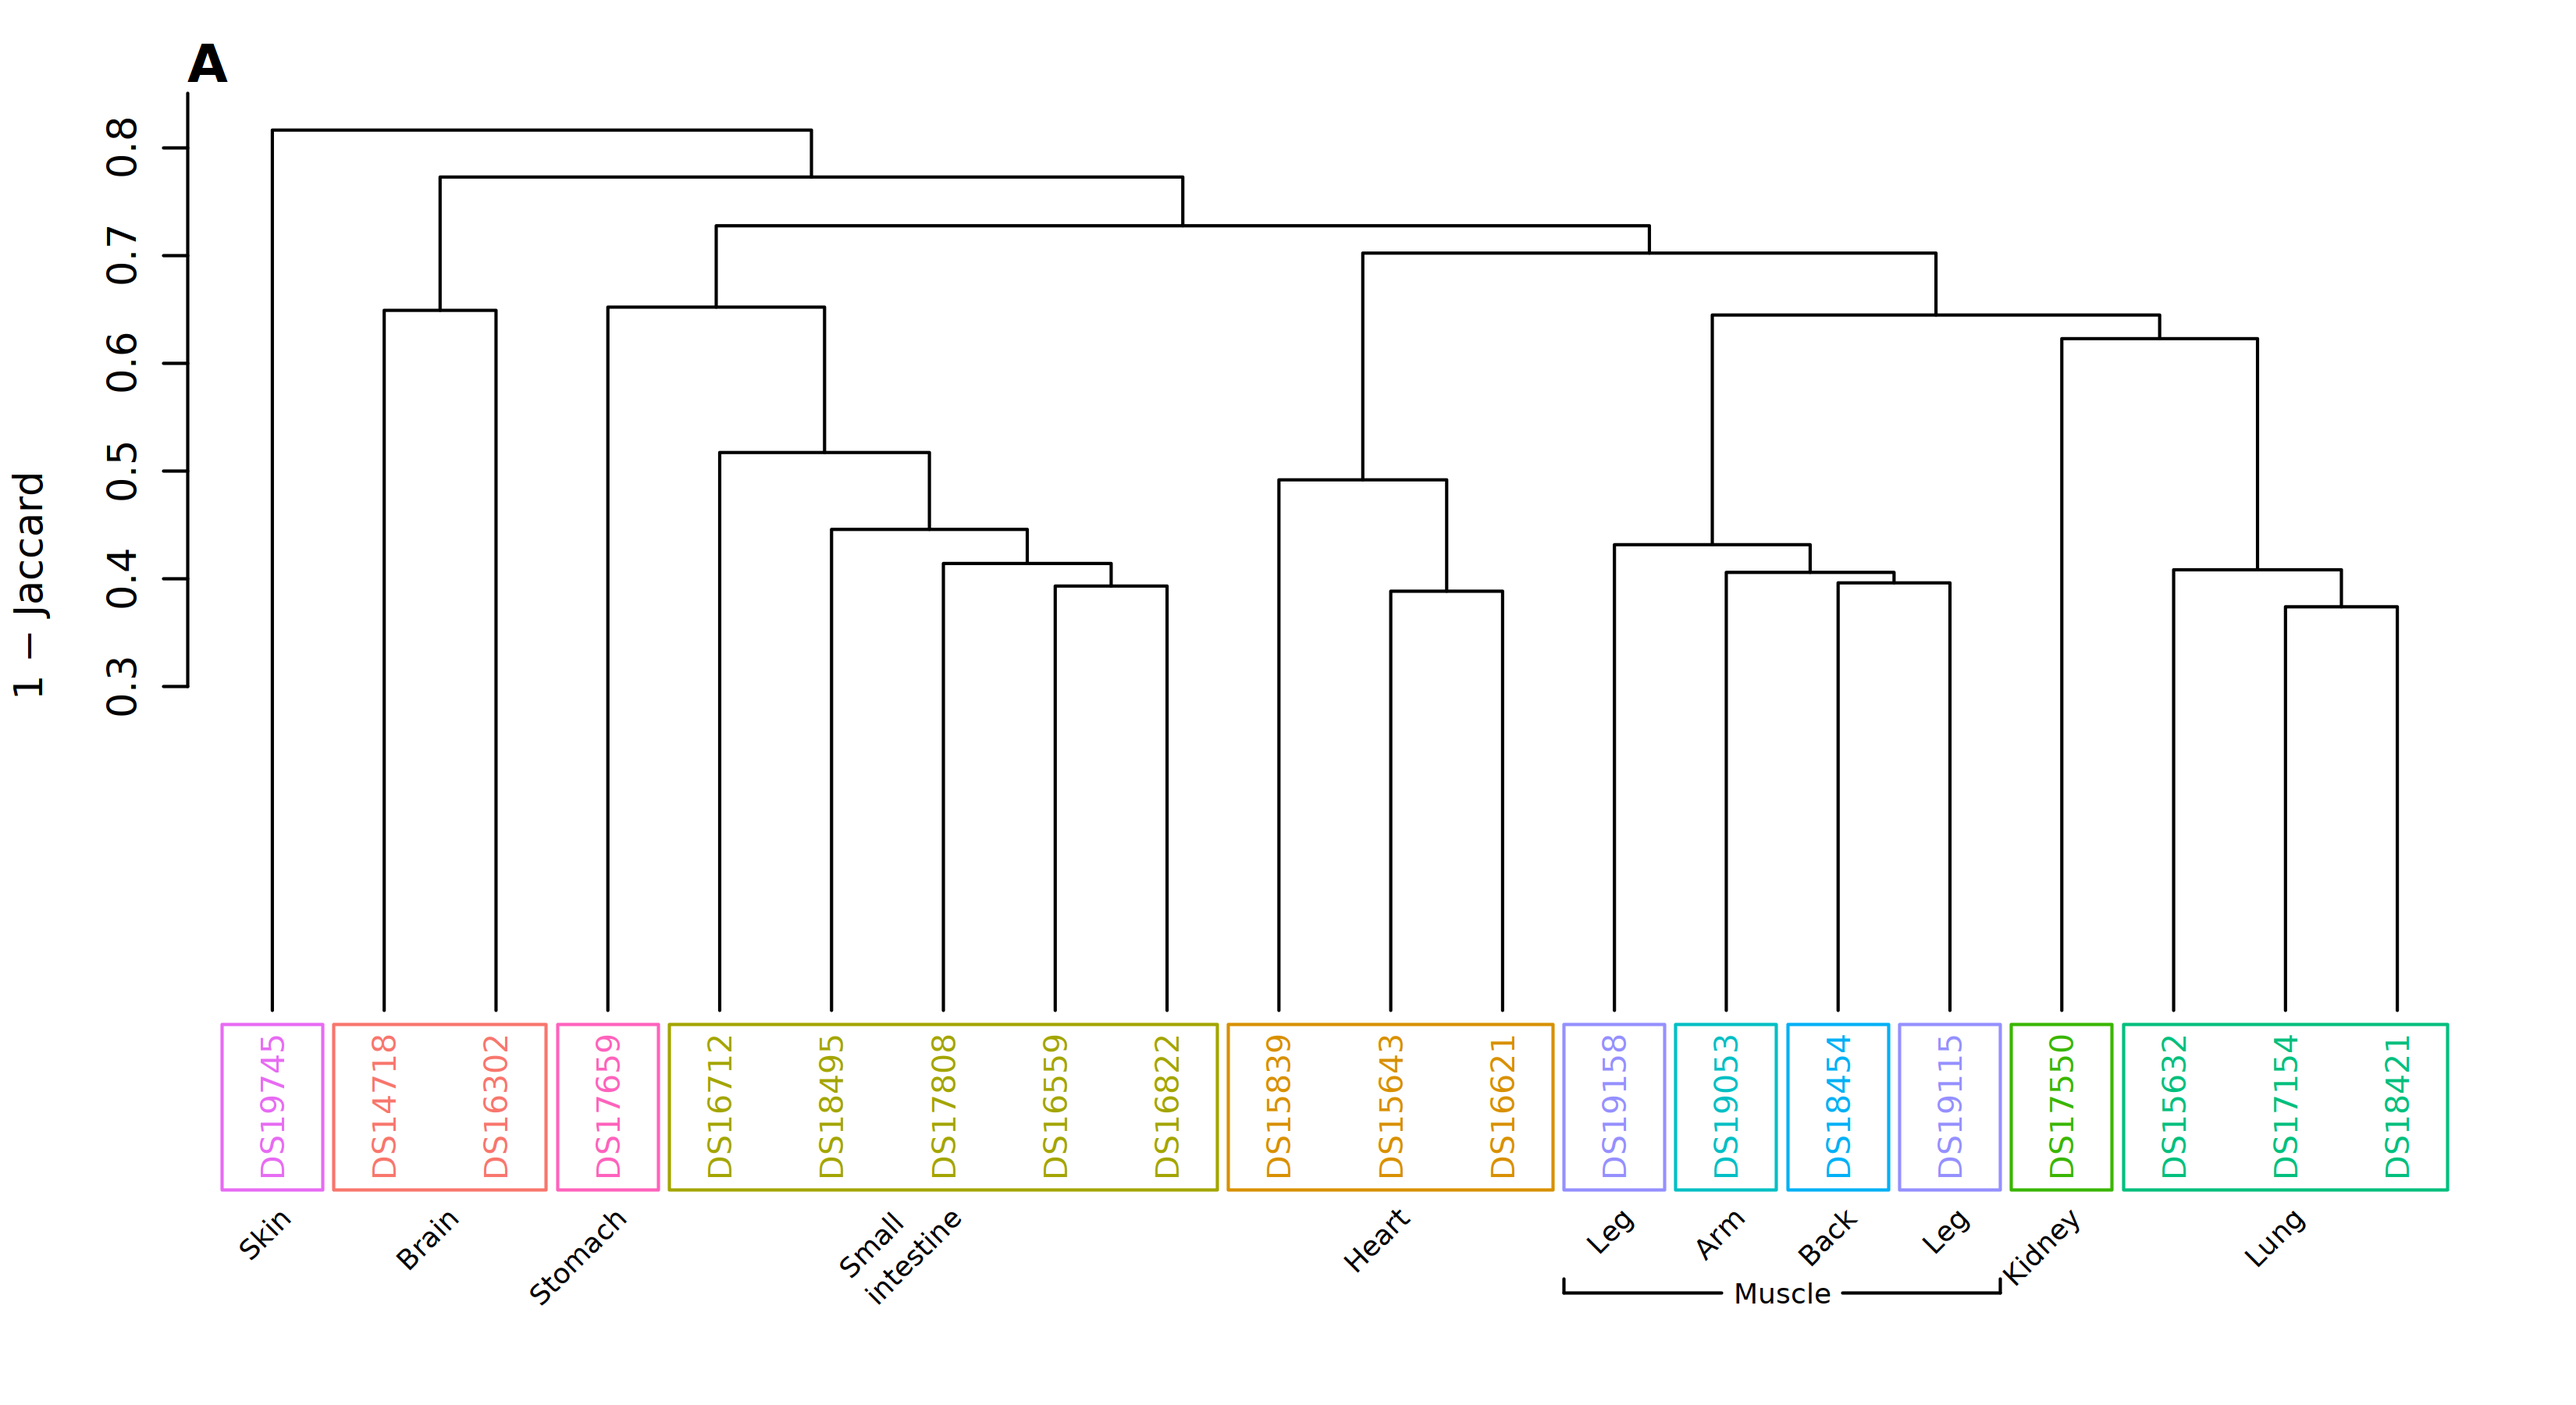
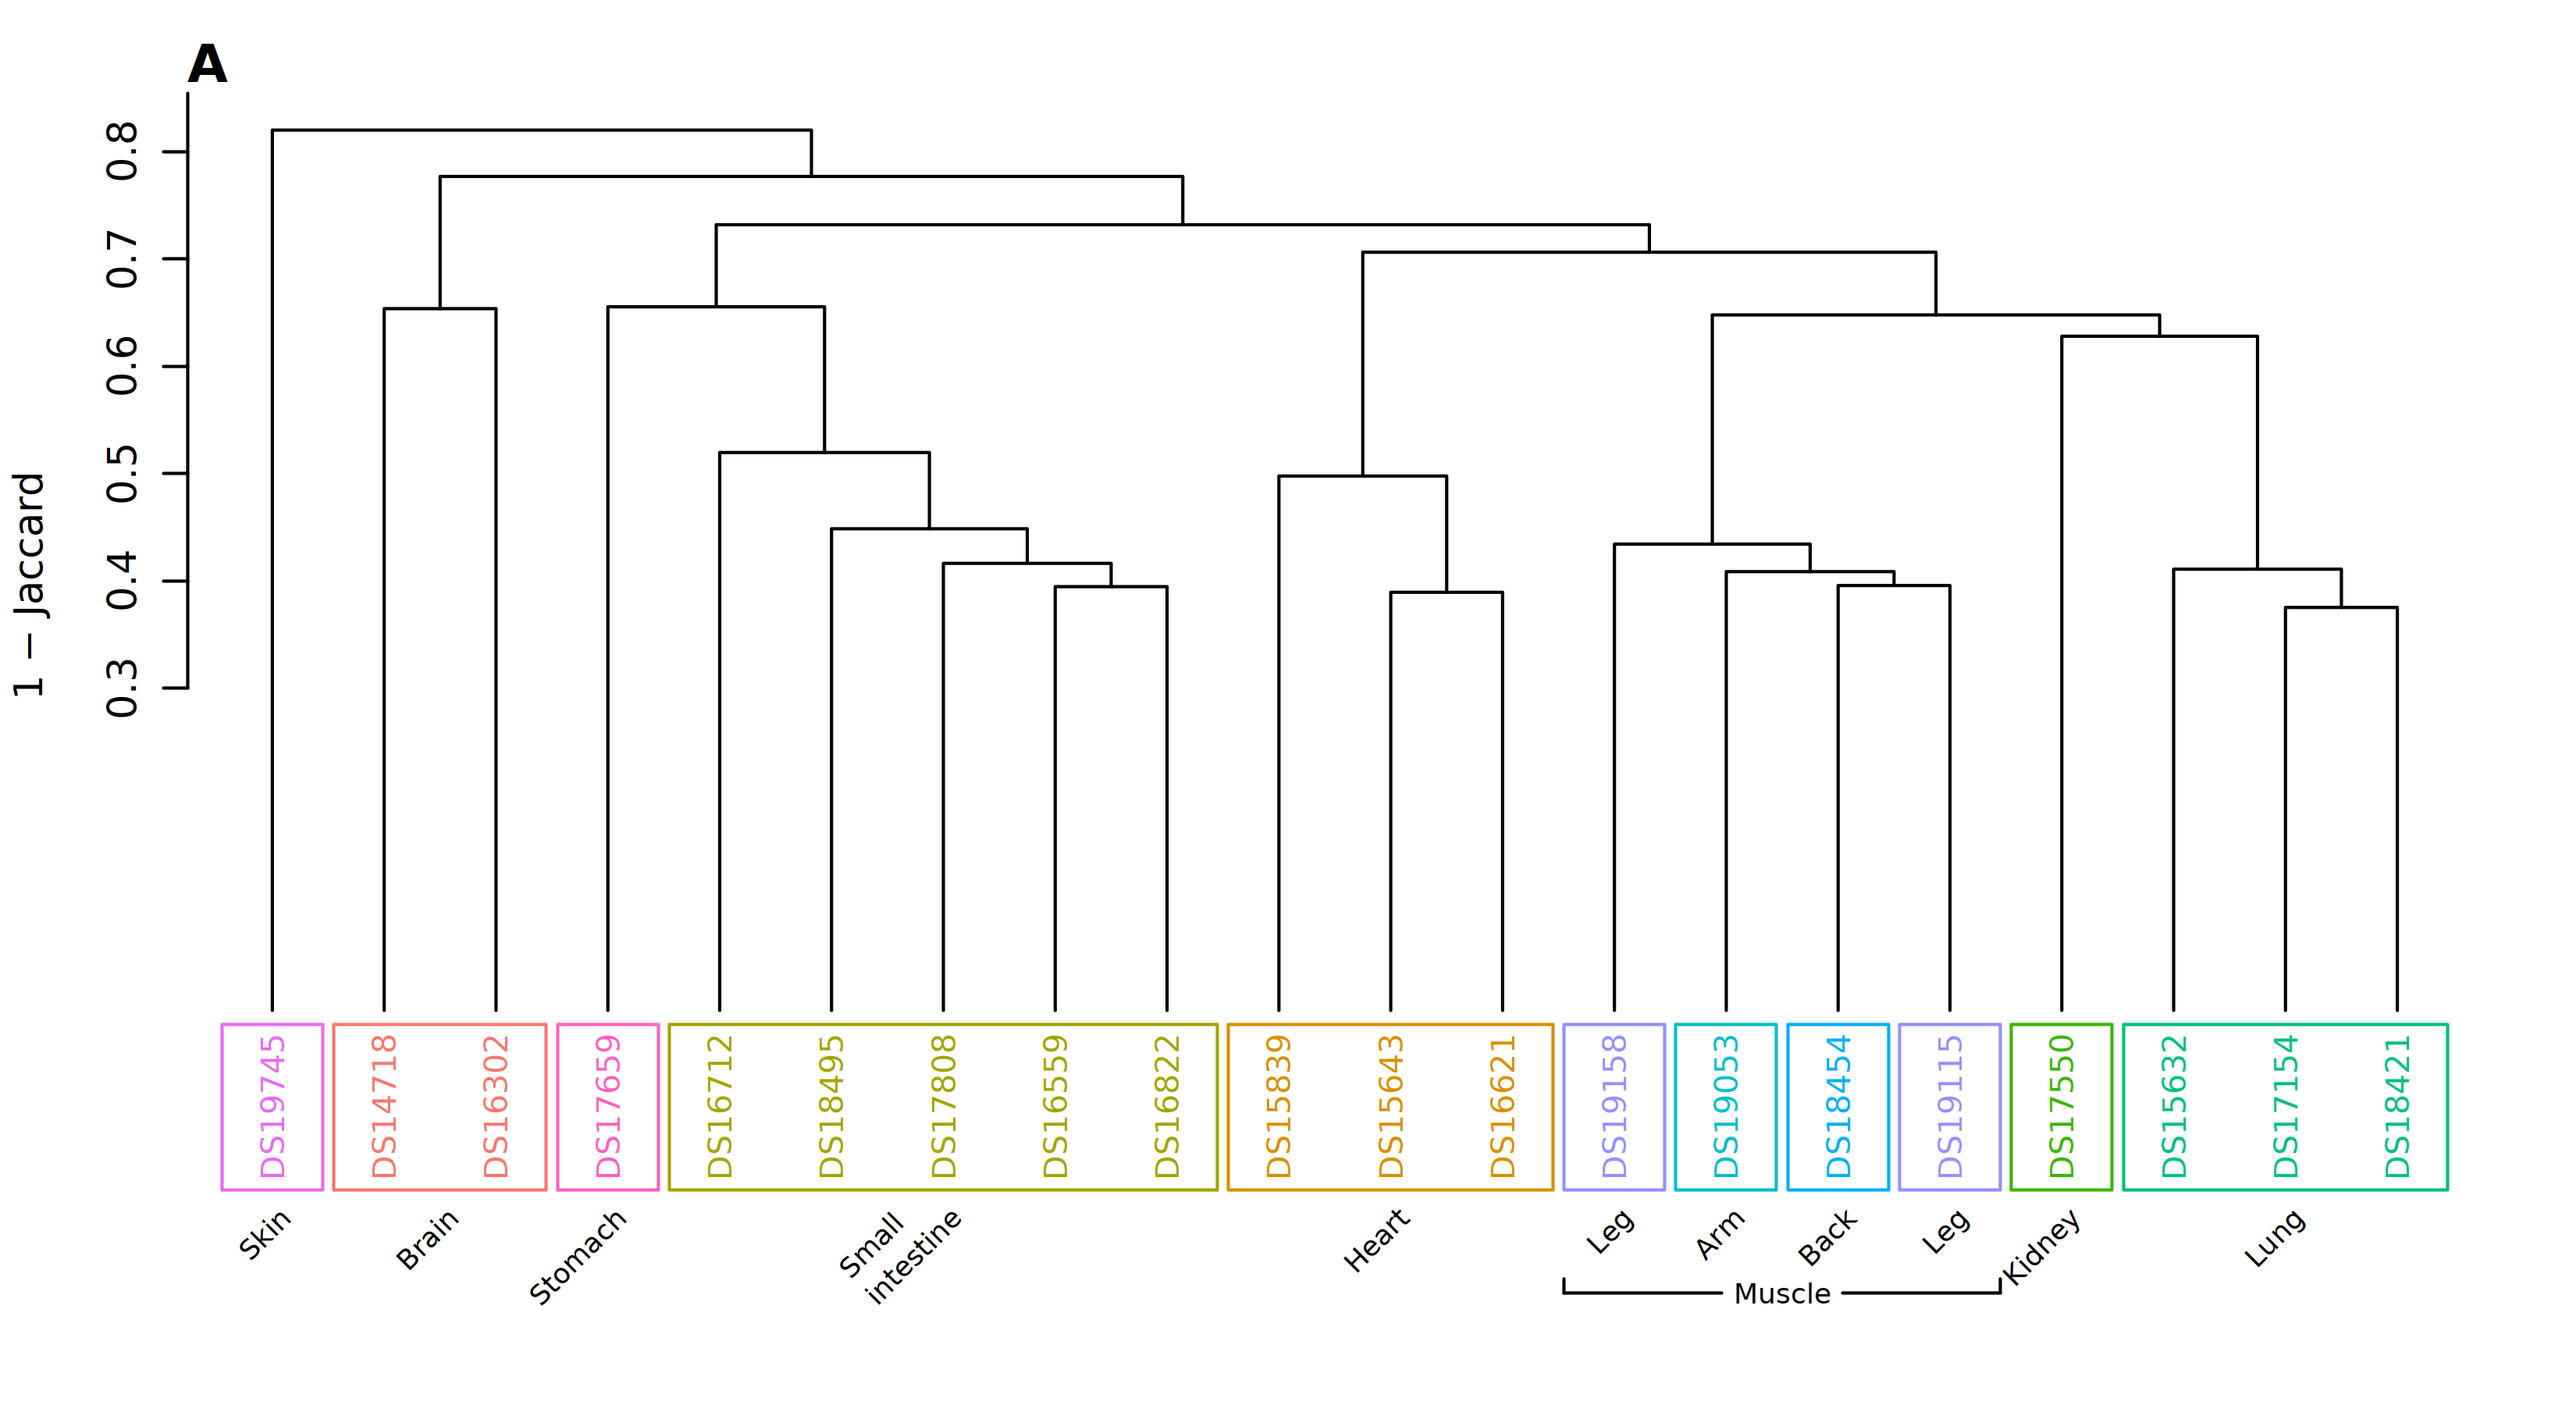
Add precision-stability tissue dendrogram supplement

diff --git a/paper/draft.md b/paper/draft.md
@@ -286,9 +286,15 @@ Caveat worth carrying: `jaccard_similarity_ie` is censored at zero by the non-ne
 
 ![Figure S5a, panel B](figures/sequence_tissue_distance_heatmap_k20_w20.png)
 
-**Figure S5a. Numerical agreement with exact interval Jaccard does not maximize recovery of fetal-tissue organization.** The same 20 fetal-tissue DNase-seq interval sets shown in Figure 6 were compared using the inclusion–exclusion Jaccard estimate, `jaccard_similarity_ie`, at k=20, w=20, and HyperLogLog precision p=24—the parameter combination with the greatest Pearson correlation with exact BEDTools Jaccard within the p=24 comparison shown in Figure 7 (r=0.99997). **(A)** Average-linkage agglomerative hierarchical clustering was performed on 1−J. Leaf labels show dataset accessions and are colored and boxed by annotated tissue; these annotations do not represent a discrete cluster cut. **(B)** The complete pairwise 1−J distance matrix follows the dendrogram leaf order in A. Accession-label colors and marginal bars denote annotated tissues, with arm, back, and leg grouped under muscle. Lime-green diagonal outlines show the result of cutting the average-linkage agglomerative hierarchy into ten clusters. Relative to the annotated tissue partition, the cut separates the two brain samples, separates one of the five small-intestine samples, and combines the arm, back, and two leg samples into one cluster, yielding ARI=0.693 and NMI=0.905. In contrast, the biologically selected k=10, w=30 setting in Figure 6 at the default p=18 yields ARI=0.910 and NMI=0.961, demonstrating that numerical agreement with exact pairwise Jaccard and recovery of tissue organization select different sequence-sketch parameters.
+**Figure S5a. Numerical agreement with exact interval Jaccard does not maximize recovery of fetal-tissue organization.** The same 20 fetal-tissue DNase-seq interval sets shown in Figure 6 were compared using the inclusion–exclusion Jaccard estimate, `jaccard_similarity_ie`, at k=20, w=20, and HyperLogLog precision p=18—the parameter combination with the greatest Pearson correlation with exact BEDTools Jaccard within the p=18 comparison shown in Figure 7 (r=0.99997). **(A)** Average-linkage agglomerative hierarchical clustering was performed on 1−J. Leaf labels show dataset accessions and are colored and boxed by annotated tissue; these annotations do not represent a discrete cluster cut. **(B)** The complete pairwise 1−J distance matrix follows the dendrogram leaf order in A. Accession-label colors and marginal bars denote annotated tissues, with arm, back, and leg grouped under muscle. Lime-green diagonal outlines show the result of cutting the average-linkage agglomerative hierarchy into ten clusters. Relative to the annotated tissue partition, the cut separates the two brain samples, separates one of the five small-intestine samples, and combines the arm, back, and two leg samples into one cluster, yielding ARI=0.693 and NMI=0.905. In contrast, the biologically selected k=10, w=30 setting in Figure 6 at the same precision yields ARI=0.910 and NMI=0.961, demonstrating that numerical agreement with exact pairwise Jaccard and recovery of tissue organization select different sequence-sketch parameters.
 
-**Figure S5a generation.** Panel A is generated by `paper/sequence_tissue_clustering/plot_sequence_tissue_clustering.R` using `experiments/maurano_dhs_validation/results/raw_d/hammock_mnmzr_p24_jaccD_k20_w20.csv`, the Maurano tissue key, `paper/figures/sequence_tissue_clustering_k20_w20.png`, and `jaccard_similarity_ie` as its four positional arguments. Panel B is generated by `paper/sequence_tissue_clustering/plot_distance_heatmap.R` with the same input CSV, tissue key, `paper/figures/sequence_tissue_distance_heatmap_k20_w20.png`, and similarity-column argument.
+**Figure S5a generation.** Panel A is generated by `paper/sequence_tissue_clustering/plot_sequence_tissue_clustering.R` using `experiments/maurano_dhs_validation/results/raw_d/hammock_mnmzr_p18_jaccD_k20_w20_full.csv`, the Maurano tissue key, `paper/figures/sequence_tissue_clustering_k20_w20.png`, and `jaccard_similarity_ie` as its four positional arguments. Panel B is generated by `paper/sequence_tissue_clustering/plot_distance_heatmap.R` with the same input CSV, tissue key, `paper/figures/sequence_tissue_distance_heatmap_k20_w20.png`, and similarity-column argument.
+
+![Figure S5b](figures/sequence_tissue_clustering_precision.png)
+
+**Figure S5b. Tissue recovery at the biological optimum is stable across HyperLogLog precision despite changes in dendrogram topology.** The same 20 fetal-tissue DNase-seq interval sets were compared at k=10 and w=30 using the inclusion–exclusion Jaccard estimate at **(A)** p=12, **(B)** p=18, and **(C)** p=24. Each panel shows average-linkage agglomerative hierarchical clustering on 1−J; leaf labels are colored and boxed by annotated tissue. Cutting each hierarchy into ten clusters gives the same partition at all three precisions (ARI=0.910 and NMI=0.961), although branch heights, topology, and leaf order differ. Thus the reported tissue-recovery result does not depend on selecting a high sketch precision.
+
+**Figure S5b generation.** Panels A–C are generated with `paper/sequence_tissue_clustering/plot_sequence_tissue_clustering.R` from the p=12, p=18, and p=24 k=10, w=30 Mode D outputs using `jaccard_similarity_ie`. `paper/sequence_tissue_clustering/combine_precision_dendrograms.R` stacks the three panels as rows in `paper/figures/sequence_tissue_clustering_precision.png`.
 
 - **Figure S5b — cross-reference dendrogram on `reg_eq_similarity`:** `paper/figures/cross_reference_identity_regeq.png`, generated by `paper/cross_reference_identity/plot_cross_reference_identity.R` with the output path and `reg_eq_similarity` as its two positional arguments. Register-equality companion to the now-`jaccard_similarity_ie`-based Figure 5; see S5.
 - **Table S5 — estimator agreement:** `paper/sequence_tissue_clustering/estimator_agreement_stats.csv` (per-column ARI/NMI and partition identity at Figure 6's cell), `experiments/maurano_dhs_validation/results/estimator_ari_by_config.csv` (all 235 cells), `experiments/maurano_dhs_validation/results/best_config_by_column.csv` (per-column optimum with tie sets), and `experiments/ref-comparison/results/exp_a_estimator_delta.csv` (cross-reference Δ per cell).

diff --git a/paper/outline.md b/paper/outline.md
@@ -110,9 +110,15 @@ Together, the synthetic and real-data benchmarks show that hammock improves the 
 
 ![Figure S5a, panel B](figures/sequence_tissue_distance_heatmap_k20_w20.png)
 
-**Figure S5a. Numerical agreement with exact interval Jaccard does not maximize recovery of fetal-tissue organization.** The same 20 fetal-tissue DNase-seq interval sets shown in Figure 6 were compared using the inclusion–exclusion Jaccard estimate, `jaccard_similarity_ie`, at k=20, w=20, and HyperLogLog precision p=24—the parameter combination with the greatest Pearson correlation with exact BEDTools Jaccard within the p=24 comparison shown in Figure 7 (r=0.99997). **(A)** Average-linkage agglomerative hierarchical clustering was performed on 1−J. Leaf labels show dataset accessions and are colored and boxed by annotated tissue; these annotations do not represent a discrete cluster cut. **(B)** The complete pairwise 1−J distance matrix follows the dendrogram leaf order in A; this display ordering does not affect distances or cluster assignments. Accession-label colors and marginal bars denote annotated tissues, with arm, back, and leg grouped under muscle. Lime-green diagonal outlines show the result of cutting the average-linkage agglomerative hierarchy into ten clusters. Relative to the annotated tissue partition, the cut separates the two brain samples, separates one of the five small-intestine samples, and combines the arm, back, and two leg samples into one cluster, yielding ARI=0.693 and NMI=0.905. In contrast, the biologically selected k=10, w=30 setting in Figure 6 at the default p=18 yields ARI=0.910 and NMI=0.961, demonstrating that numerical agreement with exact pairwise Jaccard and recovery of tissue organization select different sequence-sketch parameters.
+**Figure S5a. Numerical agreement with exact interval Jaccard does not maximize recovery of fetal-tissue organization.** The same 20 fetal-tissue DNase-seq interval sets shown in Figure 6 were compared using the inclusion–exclusion Jaccard estimate, `jaccard_similarity_ie`, at k=20, w=20, and HyperLogLog precision p=18—the parameter combination with the greatest Pearson correlation with exact BEDTools Jaccard within the p=18 comparison shown in Figure 7 (r=0.99997). **(A)** Average-linkage agglomerative hierarchical clustering was performed on 1−J. Leaf labels show dataset accessions and are colored and boxed by annotated tissue; these annotations do not represent a discrete cluster cut. **(B)** The complete pairwise 1−J distance matrix follows the dendrogram leaf order in A; this display ordering does not affect distances or cluster assignments. Accession-label colors and marginal bars denote annotated tissues, with arm, back, and leg grouped under muscle. Lime-green diagonal outlines show the result of cutting the average-linkage agglomerative hierarchy into ten clusters. Relative to the annotated tissue partition, the cut separates the two brain samples, separates one of the five small-intestine samples, and combines the arm, back, and two leg samples into one cluster, yielding ARI=0.693 and NMI=0.905. In contrast, the biologically selected k=10, w=30 setting in Figure 6 at the same precision yields ARI=0.910 and NMI=0.961, demonstrating that numerical agreement with exact pairwise Jaccard and recovery of tissue organization select different sequence-sketch parameters.
 
-**Figure S5a generation.** Panel A is generated by `paper/sequence_tissue_clustering/plot_sequence_tissue_clustering.R` using `experiments/maurano_dhs_validation/results/raw_d/hammock_mnmzr_p24_jaccD_k20_w20.csv`, the Maurano tissue key, `paper/figures/sequence_tissue_clustering_k20_w20.png`, and `jaccard_similarity_ie` as its four positional arguments. Panel B is generated by `paper/sequence_tissue_clustering/plot_distance_heatmap.R` with the same input CSV, tissue key, `paper/figures/sequence_tissue_distance_heatmap_k20_w20.png`, and similarity-column argument.
+**Figure S5a generation.** Panel A is generated by `paper/sequence_tissue_clustering/plot_sequence_tissue_clustering.R` using `experiments/maurano_dhs_validation/results/raw_d/hammock_mnmzr_p18_jaccD_k20_w20_full.csv`, the Maurano tissue key, `paper/figures/sequence_tissue_clustering_k20_w20.png`, and `jaccard_similarity_ie` as its four positional arguments. Panel B is generated by `paper/sequence_tissue_clustering/plot_distance_heatmap.R` with the same input CSV, tissue key, `paper/figures/sequence_tissue_distance_heatmap_k20_w20.png`, and similarity-column argument.
+
+![Figure S5b](figures/sequence_tissue_clustering_precision.png)
+
+**Figure S5b. Tissue recovery at the biological optimum is stable across HyperLogLog precision despite changes in dendrogram topology.** The same 20 fetal-tissue DNase-seq interval sets were compared at k=10 and w=30 using the inclusion–exclusion Jaccard estimate at **(A)** p=12, **(B)** p=18, and **(C)** p=24. Each panel shows average-linkage agglomerative hierarchical clustering on 1−J; leaf labels are colored and boxed by annotated tissue. Cutting each hierarchy into ten clusters gives the same partition at all three precisions (ARI=0.910 and NMI=0.961), although branch heights, topology, and leaf order differ. Thus the reported tissue-recovery result does not depend on selecting a high sketch precision.
+
+**Figure S5b generation.** Panels A–C are generated with `paper/sequence_tissue_clustering/plot_sequence_tissue_clustering.R` from the p=12, p=18, and p=24 k=10, w=30 Mode D outputs using `jaccard_similarity_ie`. `paper/sequence_tissue_clustering/combine_precision_dendrograms.R` stacks the three panels as rows in `paper/figures/sequence_tissue_clustering_precision.png`.
 
 ## III. Discussion
 
